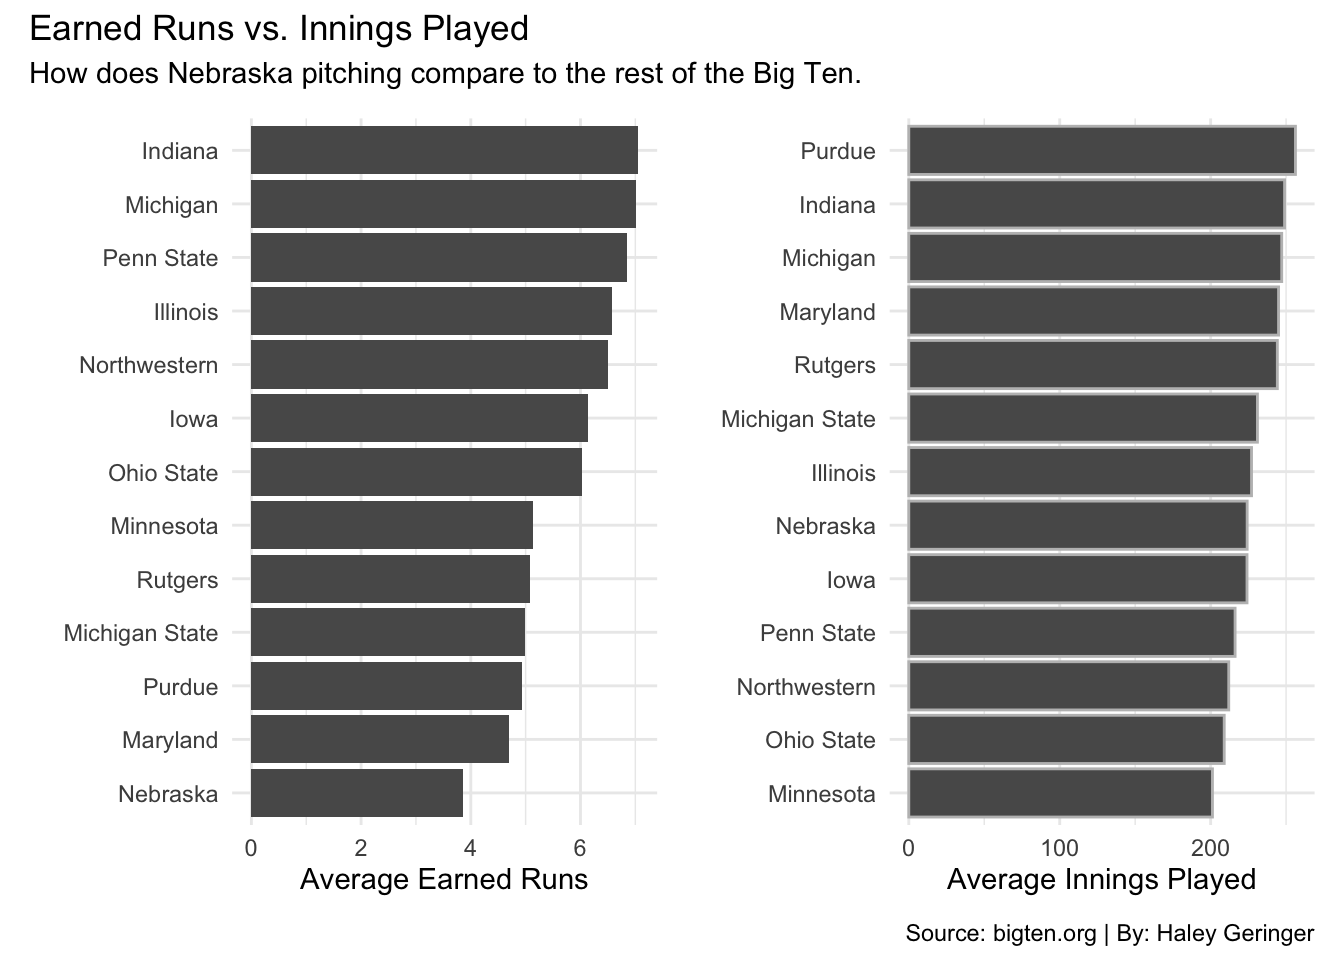
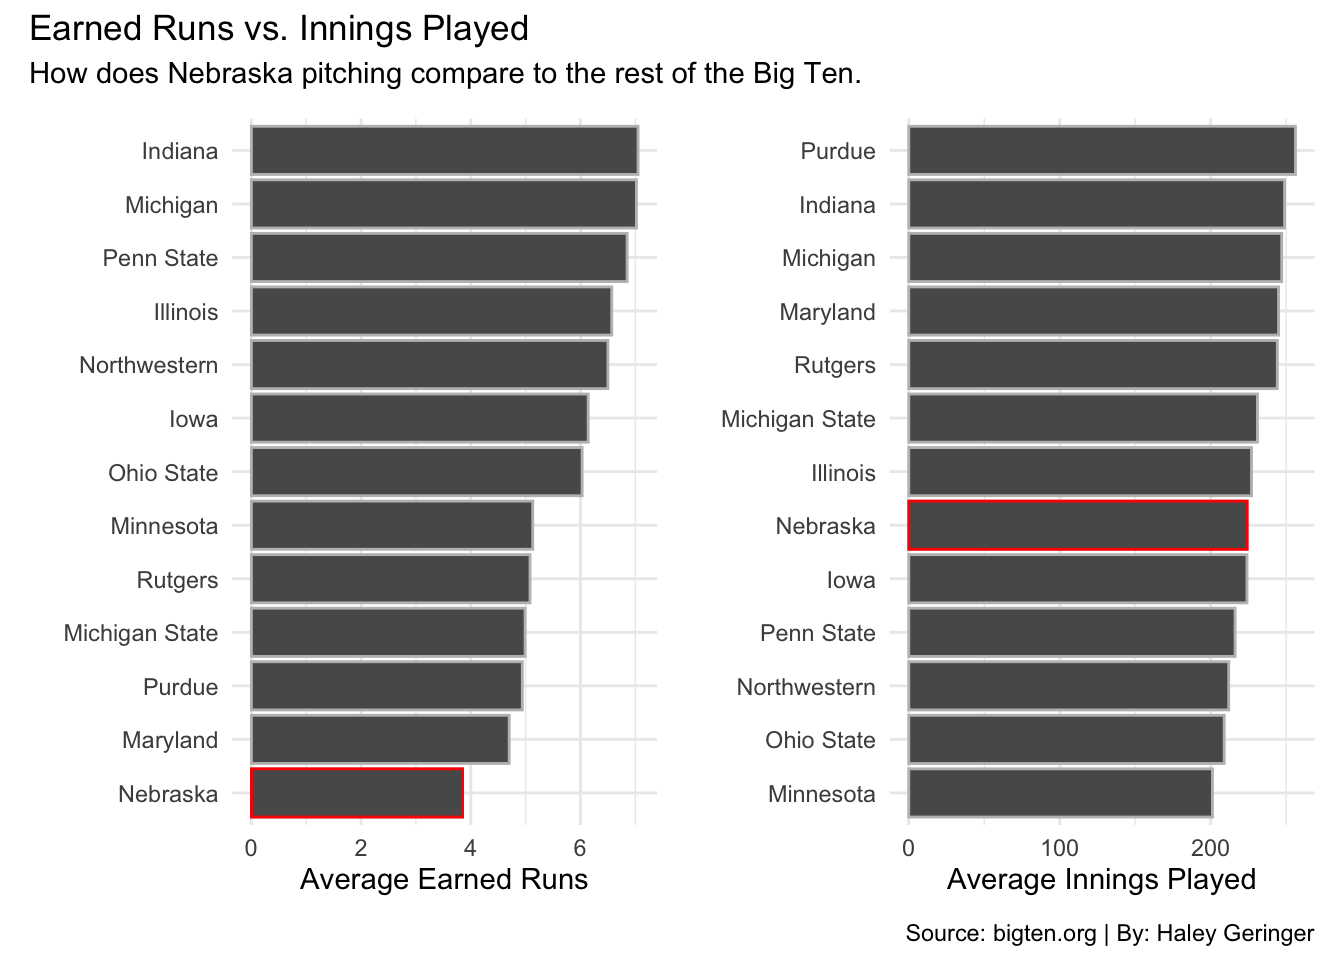
change

diff --git a/posts/nebraska-baseball/index.html b/posts/nebraska-baseball/index.html
@@ -207,30 +207,33 @@ pre > code.sourceCode > span > a:first-child::before { text-decoration: underlin
 <span id="cb1-11"><a href="#cb1-11" aria-hidden="true" tabindex="-1"></a>    <span class="at">EarnedRuns =</span> <span class="fu">sum</span>(ERA),</span>
 <span id="cb1-12"><a href="#cb1-12" aria-hidden="true" tabindex="-1"></a>    <span class="at">InningsPlayed =</span> <span class="fu">sum</span>(IP)</span>
 <span id="cb1-13"><a href="#cb1-13" aria-hidden="true" tabindex="-1"></a>  ) </span>
-<span id="cb1-14"><a href="#cb1-14" aria-hidden="true" tabindex="-1"></a></span>
-<span id="cb1-15"><a href="#cb1-15" aria-hidden="true" tabindex="-1"></a>bar1 <span class="ot">&lt;-</span> <span class="fu">ggplot</span>() <span class="sc">+</span> </span>
-<span id="cb1-16"><a href="#cb1-16" aria-hidden="true" tabindex="-1"></a>  <span class="fu">geom_bar</span>(<span class="at">data=</span>totals, <span class="fu">aes</span>(<span class="at">x=</span><span class="fu">reorder</span>(Team, EarnedRuns), <span class="at">weight=</span>EarnedRuns)) <span class="sc">+</span></span>
-<span id="cb1-17"><a href="#cb1-17" aria-hidden="true" tabindex="-1"></a>  <span class="fu">coord_flip</span>() <span class="sc">+</span> </span>
-<span id="cb1-18"><a href="#cb1-18" aria-hidden="true" tabindex="-1"></a>  <span class="fu">labs</span>(</span>
-<span id="cb1-19"><a href="#cb1-19" aria-hidden="true" tabindex="-1"></a>    <span class="at">x=</span><span class="st">""</span>, </span>
-<span id="cb1-20"><a href="#cb1-20" aria-hidden="true" tabindex="-1"></a>    <span class="at">y=</span><span class="st">"Average Earned Runs"</span></span>
-<span id="cb1-21"><a href="#cb1-21" aria-hidden="true" tabindex="-1"></a>    ) <span class="sc">+</span> </span>
-<span id="cb1-22"><a href="#cb1-22" aria-hidden="true" tabindex="-1"></a>  <span class="fu">theme_minimal</span>() </span>
-<span id="cb1-23"><a href="#cb1-23" aria-hidden="true" tabindex="-1"></a></span>
-<span id="cb1-24"><a href="#cb1-24" aria-hidden="true" tabindex="-1"></a>bar2 <span class="ot">&lt;-</span> <span class="fu">ggplot</span>() <span class="sc">+</span> </span>
-<span id="cb1-25"><a href="#cb1-25" aria-hidden="true" tabindex="-1"></a>  <span class="fu">geom_bar</span>(<span class="at">data=</span>totals, <span class="fu">aes</span>(<span class="at">x=</span><span class="fu">reorder</span>(Team, InningsPlayed), <span class="at">weight=</span>InningsPlayed), <span class="at">color=</span><span class="st">"grey"</span>) <span class="sc">+</span></span>
-<span id="cb1-26"><a href="#cb1-26" aria-hidden="true" tabindex="-1"></a>  <span class="fu">coord_flip</span>() <span class="sc">+</span>  </span>
-<span id="cb1-27"><a href="#cb1-27" aria-hidden="true" tabindex="-1"></a>  <span class="fu">labs</span>(</span>
-<span id="cb1-28"><a href="#cb1-28" aria-hidden="true" tabindex="-1"></a>    <span class="at">x=</span><span class="st">""</span>, </span>
-<span id="cb1-29"><a href="#cb1-29" aria-hidden="true" tabindex="-1"></a>    <span class="at">y=</span><span class="st">"Average Innings Played"</span>) <span class="sc">+</span> </span>
-<span id="cb1-30"><a href="#cb1-30" aria-hidden="true" tabindex="-1"></a>  <span class="fu">theme_minimal</span>()</span>
-<span id="cb1-31"><a href="#cb1-31" aria-hidden="true" tabindex="-1"></a></span>
-<span id="cb1-32"><a href="#cb1-32" aria-hidden="true" tabindex="-1"></a>bar1 <span class="sc">+</span> bar2 <span class="sc">+</span></span>
-<span id="cb1-33"><a href="#cb1-33" aria-hidden="true" tabindex="-1"></a>  <span class="fu">plot_annotation</span>(</span>
-<span id="cb1-34"><a href="#cb1-34" aria-hidden="true" tabindex="-1"></a>    <span class="at">title =</span> <span class="st">"Earned Runs vs. Innings Played"</span>,</span>
-<span id="cb1-35"><a href="#cb1-35" aria-hidden="true" tabindex="-1"></a>    <span class="at">subtitle =</span> <span class="st">"How does Nebraska pitching compare to the rest of the Big Ten."</span>,</span>
-<span id="cb1-36"><a href="#cb1-36" aria-hidden="true" tabindex="-1"></a>    <span class="at">caption =</span> <span class="st">"Source: bigten.org | By: Haley Geringer"</span></span>
-<span id="cb1-37"><a href="#cb1-37" aria-hidden="true" tabindex="-1"></a>  )</span></code><button title="Copy to Clipboard" class="code-copy-button"><i class="bi"></i></button></pre></div>
+<span id="cb1-14"><a href="#cb1-14" aria-hidden="true" tabindex="-1"></a>nu <span class="ot">&lt;-</span> totals <span class="sc">|&gt;</span> <span class="fu">filter</span>(Team <span class="sc">==</span> <span class="st">"Nebraska"</span>)</span>
+<span id="cb1-15"><a href="#cb1-15" aria-hidden="true" tabindex="-1"></a></span>
+<span id="cb1-16"><a href="#cb1-16" aria-hidden="true" tabindex="-1"></a>bar1 <span class="ot">&lt;-</span> <span class="fu">ggplot</span>() <span class="sc">+</span> </span>
+<span id="cb1-17"><a href="#cb1-17" aria-hidden="true" tabindex="-1"></a>  <span class="fu">geom_bar</span>(<span class="at">data=</span>totals, <span class="fu">aes</span>(<span class="at">x=</span><span class="fu">reorder</span>(Team, EarnedRuns), <span class="at">weight=</span>EarnedRuns), <span class="at">color=</span><span class="st">"grey"</span>) <span class="sc">+</span></span>
+<span id="cb1-18"><a href="#cb1-18" aria-hidden="true" tabindex="-1"></a>  <span class="fu">geom_bar</span>(<span class="at">data=</span>nu, <span class="fu">aes</span>(<span class="at">x=</span><span class="fu">reorder</span>(Team, EarnedRuns), <span class="at">weight=</span>EarnedRuns), <span class="at">color=</span><span class="st">"red"</span>) <span class="sc">+</span></span>
+<span id="cb1-19"><a href="#cb1-19" aria-hidden="true" tabindex="-1"></a>  <span class="fu">coord_flip</span>() <span class="sc">+</span> </span>
+<span id="cb1-20"><a href="#cb1-20" aria-hidden="true" tabindex="-1"></a>  <span class="fu">labs</span>(</span>
+<span id="cb1-21"><a href="#cb1-21" aria-hidden="true" tabindex="-1"></a>    <span class="at">x=</span><span class="st">""</span>, </span>
+<span id="cb1-22"><a href="#cb1-22" aria-hidden="true" tabindex="-1"></a>    <span class="at">y=</span><span class="st">"Average Earned Runs"</span></span>
+<span id="cb1-23"><a href="#cb1-23" aria-hidden="true" tabindex="-1"></a>    ) <span class="sc">+</span> </span>
+<span id="cb1-24"><a href="#cb1-24" aria-hidden="true" tabindex="-1"></a>  <span class="fu">theme_minimal</span>() </span>
+<span id="cb1-25"><a href="#cb1-25" aria-hidden="true" tabindex="-1"></a></span>
+<span id="cb1-26"><a href="#cb1-26" aria-hidden="true" tabindex="-1"></a>bar2 <span class="ot">&lt;-</span> <span class="fu">ggplot</span>() <span class="sc">+</span> </span>
+<span id="cb1-27"><a href="#cb1-27" aria-hidden="true" tabindex="-1"></a>  <span class="fu">geom_bar</span>(<span class="at">data=</span>totals, <span class="fu">aes</span>(<span class="at">x=</span><span class="fu">reorder</span>(Team, InningsPlayed), <span class="at">weight=</span>InningsPlayed), <span class="at">color=</span><span class="st">"grey"</span>) <span class="sc">+</span></span>
+<span id="cb1-28"><a href="#cb1-28" aria-hidden="true" tabindex="-1"></a>  <span class="fu">geom_bar</span>(<span class="at">data=</span>nu, <span class="fu">aes</span>(<span class="at">x=</span><span class="fu">reorder</span>(Team, InningsPlayed), <span class="at">weight=</span>InningsPlayed), <span class="at">color=</span><span class="st">"red"</span>) <span class="sc">+</span></span>
+<span id="cb1-29"><a href="#cb1-29" aria-hidden="true" tabindex="-1"></a>  <span class="fu">coord_flip</span>() <span class="sc">+</span>  </span>
+<span id="cb1-30"><a href="#cb1-30" aria-hidden="true" tabindex="-1"></a>  <span class="fu">labs</span>(</span>
+<span id="cb1-31"><a href="#cb1-31" aria-hidden="true" tabindex="-1"></a>    <span class="at">x=</span><span class="st">""</span>, </span>
+<span id="cb1-32"><a href="#cb1-32" aria-hidden="true" tabindex="-1"></a>    <span class="at">y=</span><span class="st">"Average Innings Played"</span>) <span class="sc">+</span> </span>
+<span id="cb1-33"><a href="#cb1-33" aria-hidden="true" tabindex="-1"></a>  <span class="fu">theme_minimal</span>()</span>
+<span id="cb1-34"><a href="#cb1-34" aria-hidden="true" tabindex="-1"></a></span>
+<span id="cb1-35"><a href="#cb1-35" aria-hidden="true" tabindex="-1"></a>bar1 <span class="sc">+</span> bar2 <span class="sc">+</span></span>
+<span id="cb1-36"><a href="#cb1-36" aria-hidden="true" tabindex="-1"></a>  <span class="fu">plot_annotation</span>(</span>
+<span id="cb1-37"><a href="#cb1-37" aria-hidden="true" tabindex="-1"></a>    <span class="at">title =</span> <span class="st">"Earned Runs vs. Innings Played"</span>,</span>
+<span id="cb1-38"><a href="#cb1-38" aria-hidden="true" tabindex="-1"></a>    <span class="at">subtitle =</span> <span class="st">"How does Nebraska pitching compare to the rest of the Big Ten."</span>,</span>
+<span id="cb1-39"><a href="#cb1-39" aria-hidden="true" tabindex="-1"></a>    <span class="at">caption =</span> <span class="st">"Source: bigten.org | By: Haley Geringer"</span></span>
+<span id="cb1-40"><a href="#cb1-40" aria-hidden="true" tabindex="-1"></a>  )</span></code><button title="Copy to Clipboard" class="code-copy-button"><i class="bi"></i></button></pre></div>
 </details>
 <div class="cell-output-display">
 <div>

diff --git a/index.html b/index.html
@@ -205,7 +205,7 @@ window.Quarto = {
 
 <div class="quarto-listing quarto-listing-container-default" id="listing-listing">
 <div class="list quarto-listing-default">
-<div class="quarto-post image-right" data-index="0" data-categories="sports,analysis" data-listing-date-sort="1712034000000" data-listing-file-modified-sort="1713201020318" data-listing-date-modified-sort="NaN" data-listing-reading-time-sort="4" data-listing-word-count-sort="676">
+<div class="quarto-post image-right" data-index="0" data-categories="sports,analysis" data-listing-date-sort="1712034000000" data-listing-file-modified-sort="1713206947354" data-listing-date-modified-sort="NaN" data-listing-reading-time-sort="4" data-listing-word-count-sort="697">
 <div class="thumbnail">
 <p><a href="./posts/nebraska-baseball/index.html" class="no-external"></a></p><a href="./posts/nebraska-baseball/index.html" class="no-external">
 <p><img src="./posts/nebraska-baseball/default" class="thumbnail-image"></p>
